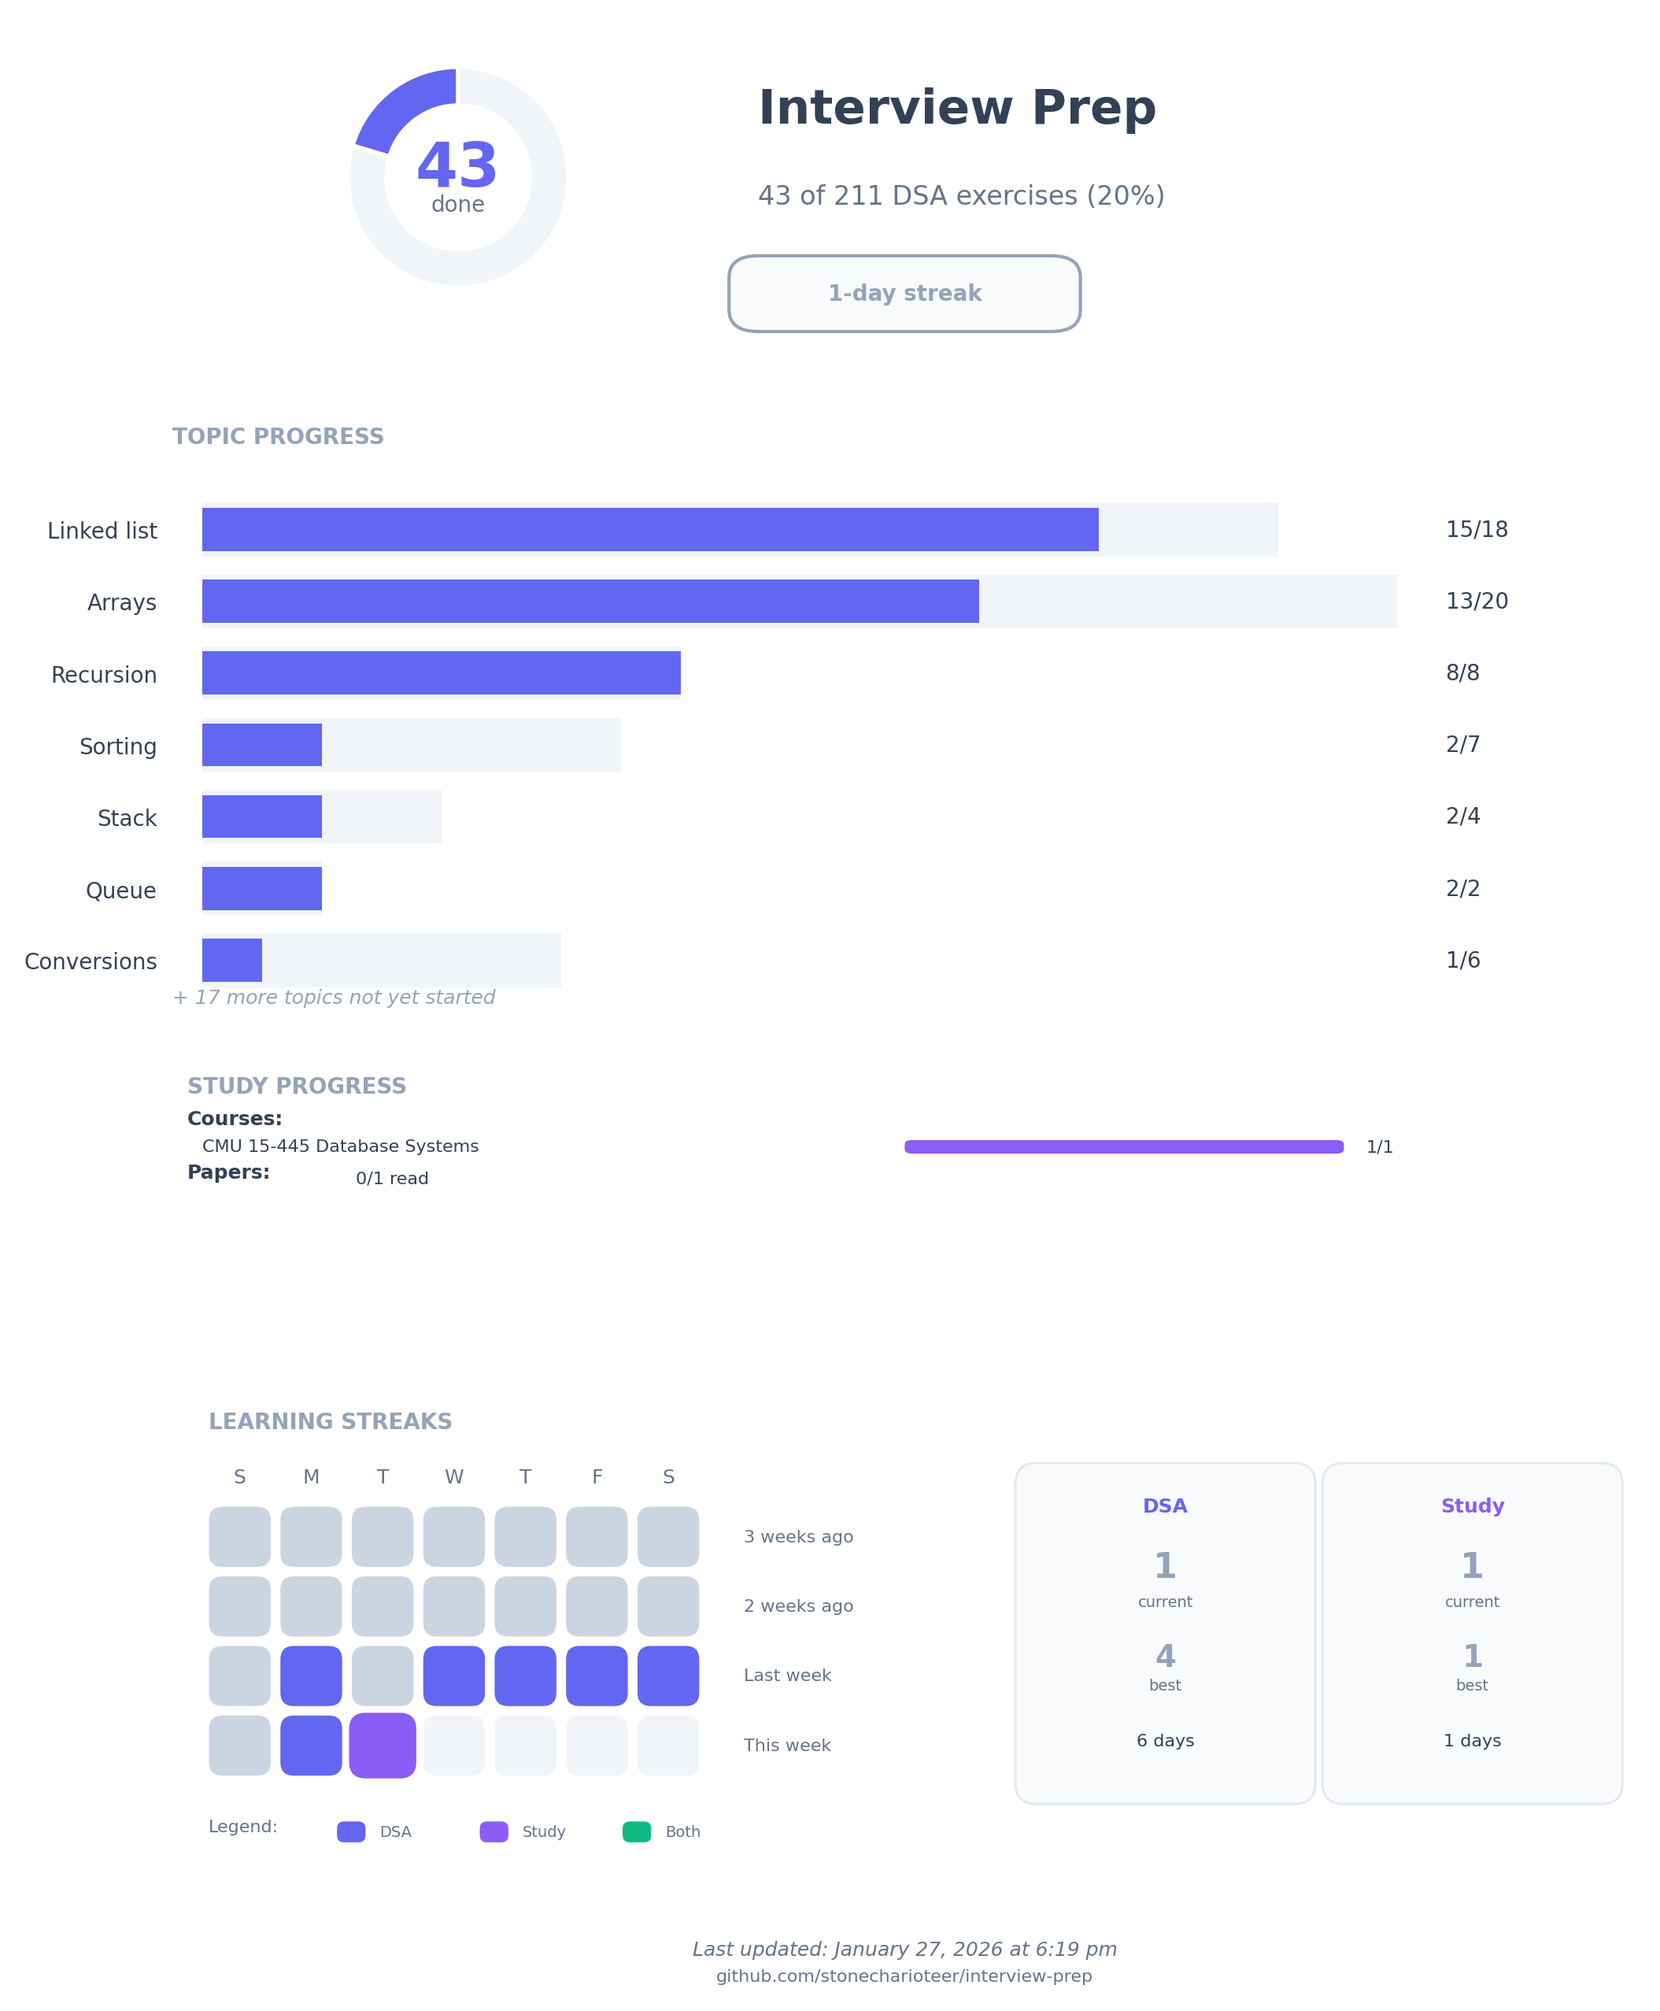
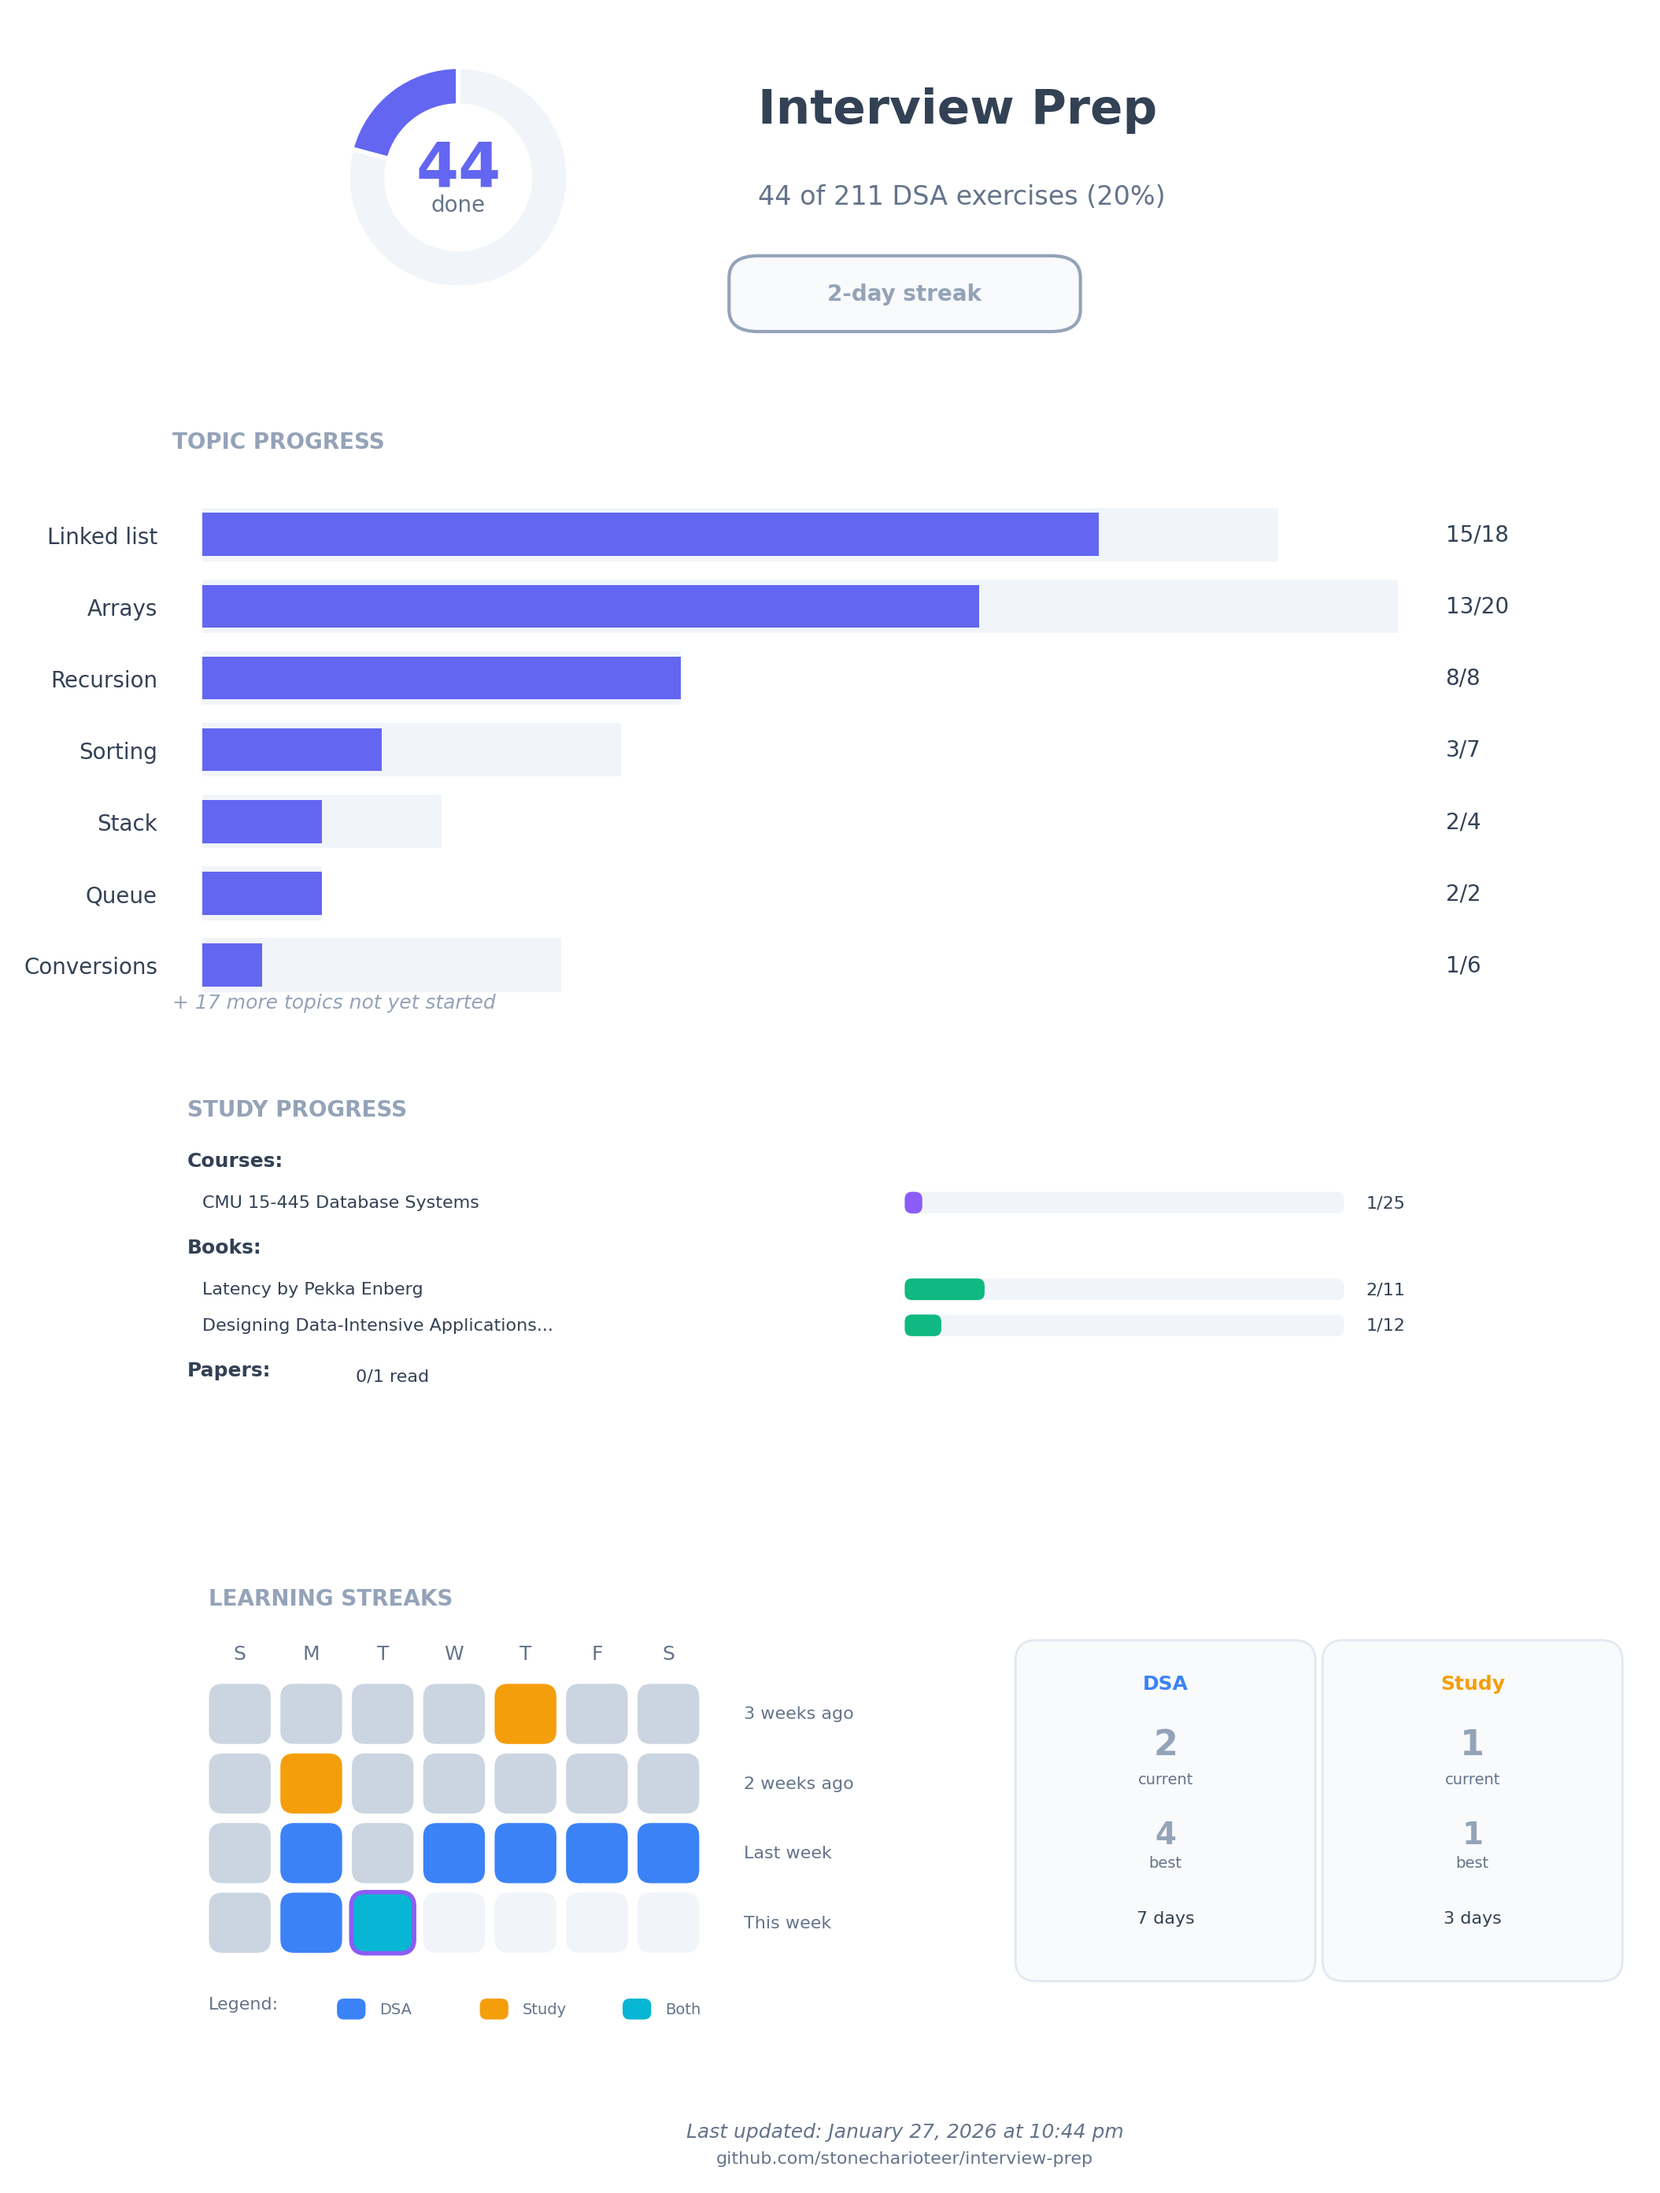
solve: bubble sort

diff --git a/scripts/progress.py b/scripts/progress.py
@@ -40,7 +40,8 @@ console = Console()
 
 # ============ Constants ============
 
-DB_FILE = "progress.db"
+# Use PROGRESS_TEST_DB=1 to use a test database file
+DB_FILE = "progress_test.db" if os.environ.get("PROGRESS_TEST_DB") else "progress.db"
 EXERCISES_FILE = "exercises.md"
 DEFAULT_YEAR = 2026
 
@@ -83,6 +84,10 @@ PALETTE = {
     "accent": "#8b5cf6",
     "card_bg": "#f8fafc",
     "card_border": "#e2e8f0",
+    # Streak colors - blue/orange scheme
+    "dsa": "#3b82f6",      # Blue
+    "study": "#f59e0b",    # Amber
+    "both": "#06b6d4",     # Cyan
 }
 
 TOPIC_NORMALIZATION = {
@@ -745,12 +750,12 @@ def get_study_data_for_chart(conn: duckdb.DuckDBPyConnection) -> dict:
     # Books - calculate progress from chapter_progress
     books = conn.execute("""
         SELECT
-            b.id, b.title, b.total_chapters,
+            b.id, b.title, b.author, b.total_chapters,
             SUM(CASE WHEN cp.progress_pct = 100 THEN 1 ELSE 0 END) as chapters_completed,
             MAX(cp.updated_date) as last_read
         FROM books b
         LEFT JOIN chapter_progress cp ON b.id = cp.book_id
-        GROUP BY b.id, b.title, b.total_chapters
+        GROUP BY b.id, b.title, b.author, b.total_chapters
         ORDER BY last_read DESC NULLS LAST
         LIMIT 5
     """).fetchall()
@@ -798,7 +803,7 @@ def draw_study_progress(ax, study_data: dict):
     papers_completed = study_data["papers_completed"]
 
     # Filter to only books/courses with activity
-    active_books = [b for b in books if (b[3] or 0) > 0]  # chapters_completed > 0
+    active_books = [b for b in books if (b[4] or 0) > 0]  # chapters_completed > 0
     active_courses = [c for c in courses if (c[4] or 0) > 0]  # has lectures
 
     if not active_books and not active_courses and papers_total == 0:
@@ -874,10 +879,12 @@ def draw_study_progress(ax, study_data: dict):
         ax.text(0.2, y_pos, "Books:", fontsize=9, fontweight="bold", color=PALETTE["text"])
         y_pos -= 0.5
 
-        for book_id, title, total_chapters, chapters_completed, last_read in active_books:
+        for book_id, title, author, total_chapters, chapters_completed, last_read in active_books:
             chapters_completed = chapters_completed or 0
             total_chapters = total_chapters or 0
-            display_title = title if len(title) <= 35 else title[:32] + "..."
+            # Build display: "Title by Author"
+            display_name = f"{title} by {author}" if author else title
+            display_name = display_name if len(display_name) <= 40 else display_name[:37] + "..."
 
             # Progress bar background
             bar_width = 6
@@ -907,7 +914,7 @@ def draw_study_progress(ax, study_data: dict):
                 # No total chapters set, just show chapters read
                 progress_str = f"{chapters_completed} ch"
 
-            ax.text(0.4, y_pos, display_title, fontsize=8, color=PALETTE["text"], va="center")
+            ax.text(0.4, y_pos, display_name, fontsize=8, color=PALETTE["text"], va="center")
             ax.text(bar_x + bar_width + 0.3, y_pos, progress_str, fontsize=8, color=PALETTE["text"], va="center")
 
             y_pos -= 0.5
@@ -957,11 +964,11 @@ def draw_combined_streak(ax, dsa_dates: set, study_dates: set, year: int,
             if is_future:
                 color = PALETTE["bg"]
             elif is_dsa and is_study:
-                color = PALETTE["active"]  # Both
+                color = PALETTE["both"]  # Both
             elif is_dsa:
-                color = PALETTE["python"]  # DSA only
+                color = PALETTE["dsa"]  # DSA only
             elif is_study:
-                color = PALETTE["accent"]  # Study only
+                color = PALETTE["study"]  # Study only
             else:
                 color = PALETTE["inactive"]
 
@@ -982,9 +989,9 @@ def draw_combined_streak(ax, dsa_dates: set, study_dates: set, year: int,
     # Legend
     ax.text(0, -0.3, "Legend:", fontsize=8, color=PALETTE["text_light"])
     legend_items = [
-        (PALETTE["python"], "DSA"),
-        (PALETTE["accent"], "Study"),
-        (PALETTE["active"], "Both"),
+        (PALETTE["dsa"], "DSA"),
+        (PALETTE["study"], "Study"),
+        (PALETTE["both"], "Both"),
     ]
     legend_x = 1.8
     for color, label in legend_items:
@@ -1008,7 +1015,7 @@ def draw_combined_streak(ax, dsa_dates: set, study_dates: set, year: int,
     )
     ax.add_patch(card)
 
-    ax.text(stats_x + 1.9, 4.3, "DSA", fontsize=9, fontweight="bold", ha="center", color=PALETTE["python"])
+    ax.text(stats_x + 1.9, 4.3, "DSA", fontsize=9, fontweight="bold", ha="center", color=PALETTE["dsa"])
 
     fire_color = PALETTE["active"] if dsa_current >= 3 else PALETTE["text_muted"]
     ax.text(stats_x + 1.9, 3.5, f"{dsa_current}", fontsize=16, fontweight="bold", ha="center", va="center", color=fire_color)
@@ -1030,7 +1037,7 @@ def draw_combined_streak(ax, dsa_dates: set, study_dates: set, year: int,
     )
     ax.add_patch(card2)
 
-    ax.text(stats_x2 + 1.9, 4.3, "Study", fontsize=9, fontweight="bold", ha="center", color=PALETTE["accent"])
+    ax.text(stats_x2 + 1.9, 4.3, "Study", fontsize=9, fontweight="bold", ha="center", color=PALETTE["study"])
 
     fire_color2 = PALETTE["active"] if study_current >= 3 else PALETTE["text_muted"]
     ax.text(stats_x2 + 1.9, 3.5, f"{study_current}", fontsize=16, fontweight="bold", ha="center", va="center", color=fire_color2)
